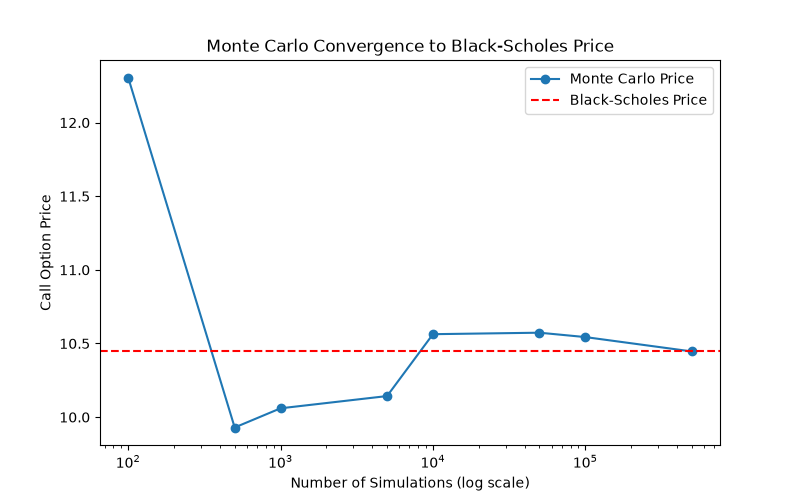
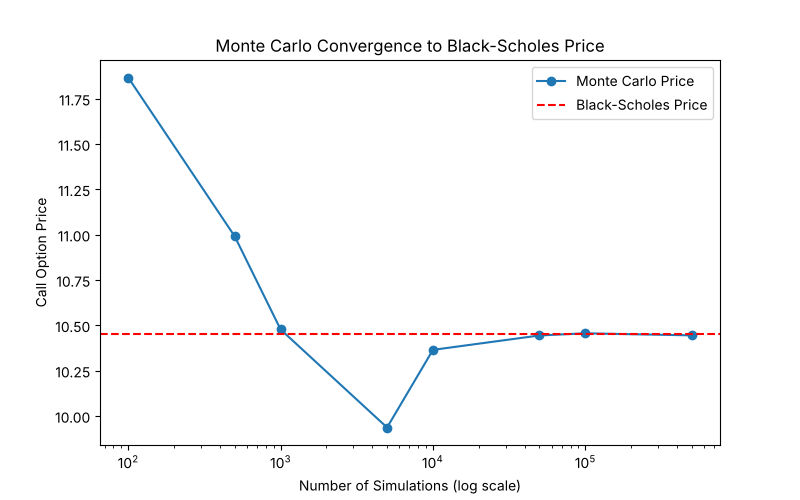
Fix demo blocks, restore benchmark inputs, trim requirements, regenerate plots

diff --git a/src/monte_carlo.py b/src/monte_carlo.py
@@ -101,7 +101,7 @@ if __name__ == "__main__":
     T = 1        # time to expiry in years
     r = 0.05     # risk-free rate
     sigma = 0.2 # volatility
-    prices = simulated_stock_prices(S, K, r, sigma, 500_000)
+    prices = simulated_stock_prices(S, T, r, sigma, 500_000)
     print(f"Mean of Simulated Prices: {prices.mean():.2f}")
     print(f"Min: {prices.min():.2f}, Max: {prices.max():.2f}")
     call_price = monte_carlo_call_price(S, K, T, r, sigma, 10000)
@@ -115,7 +115,7 @@ if __name__ == "__main__":
     bs_price = black_scholes_call(S, K, T, r, sigma)
 
     for n, price in zip(sim_counts, mc_prices):
-        print(f"n={n:>7}: MC Price = {call_price:.4f}")
+        print(f"n={n:>7}: MC Price = {price:.4f}")
     print(f"Black-Scholes Price: {bs_price:.4f}")
 
     plt.figure(figsize=(8, 5))
@@ -126,8 +126,8 @@ if __name__ == "__main__":
     plt.ylabel('Call Option Price')
     plt.title('Monte Carlo Convergence to Black-Scholes Price')
     plt.legend()
-    plt.savefig('monte_carlo_convergence.png')
+    plt.savefig(os.path.join(get_plots_dir(), 'monte_carlo_convergence.png'))
     plt.show()
 
     print("\n--- Simulated Price Paths ---")
-    plot_price_paths(S=370, T=1, r=0.05, sigma=0.406, num_sims=200, num_steps=250)
+    plot_price_paths(S=S, T=T, r=r, sigma=sigma, num_sims=200, num_steps=250)

diff --git a/src/binomial_tree.py b/src/binomial_tree.py
@@ -75,7 +75,7 @@ def plot_binomial_convergence(S, K, T, r, sigma, max_steps=200):
 if __name__ == "__main__":
     from black_scholes import black_scholes_call, black_scholes_put
 
-    S, K, T, r, sigma = 370, 370, 1, 0.05, 0.406
+    S, K, T, r, sigma = 100, 100, 1, 0.05, 0.2
 
     print("Hand-check (put): N=1 -> 7.29, N=2 European -> 4.66, N=2 American -> 5.74")
     print(f"N=1 Euro put: {binomial_tree_price(S, K, T, r, sigma, 1, 'put'):.2f}")

diff --git a/src/implied_vol.py b/src/implied_vol.py
@@ -28,4 +28,4 @@ if __name__ == "__main__":
     print(f"Market Price generated with true sigma: {market_price:.4f}")
 
     recovered_sigma = implied_vol_call(market_price, 100, 100, 1, 0.05)
-    print(f"Recovered implied volitility {recovered_sigma:.6f}")
+    print(f"Recovered implied volatility {recovered_sigma:.6f}")
